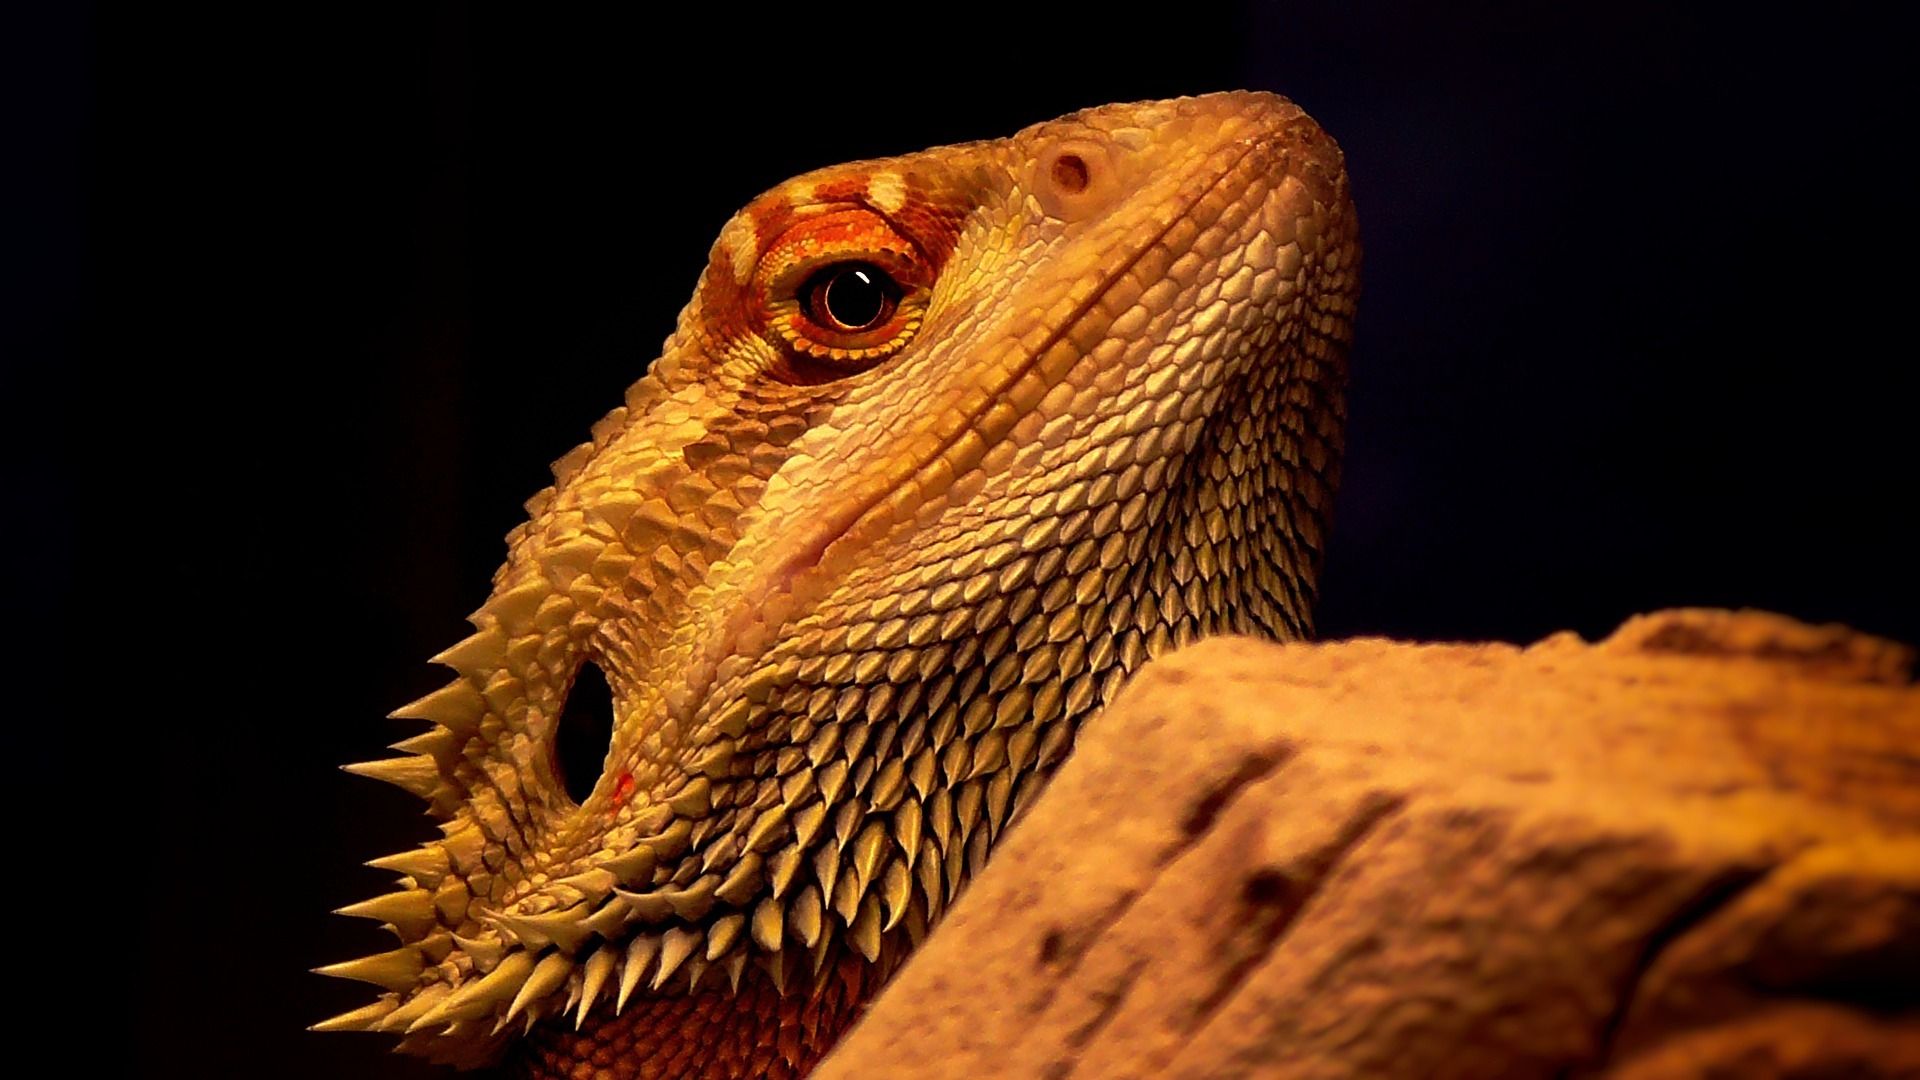
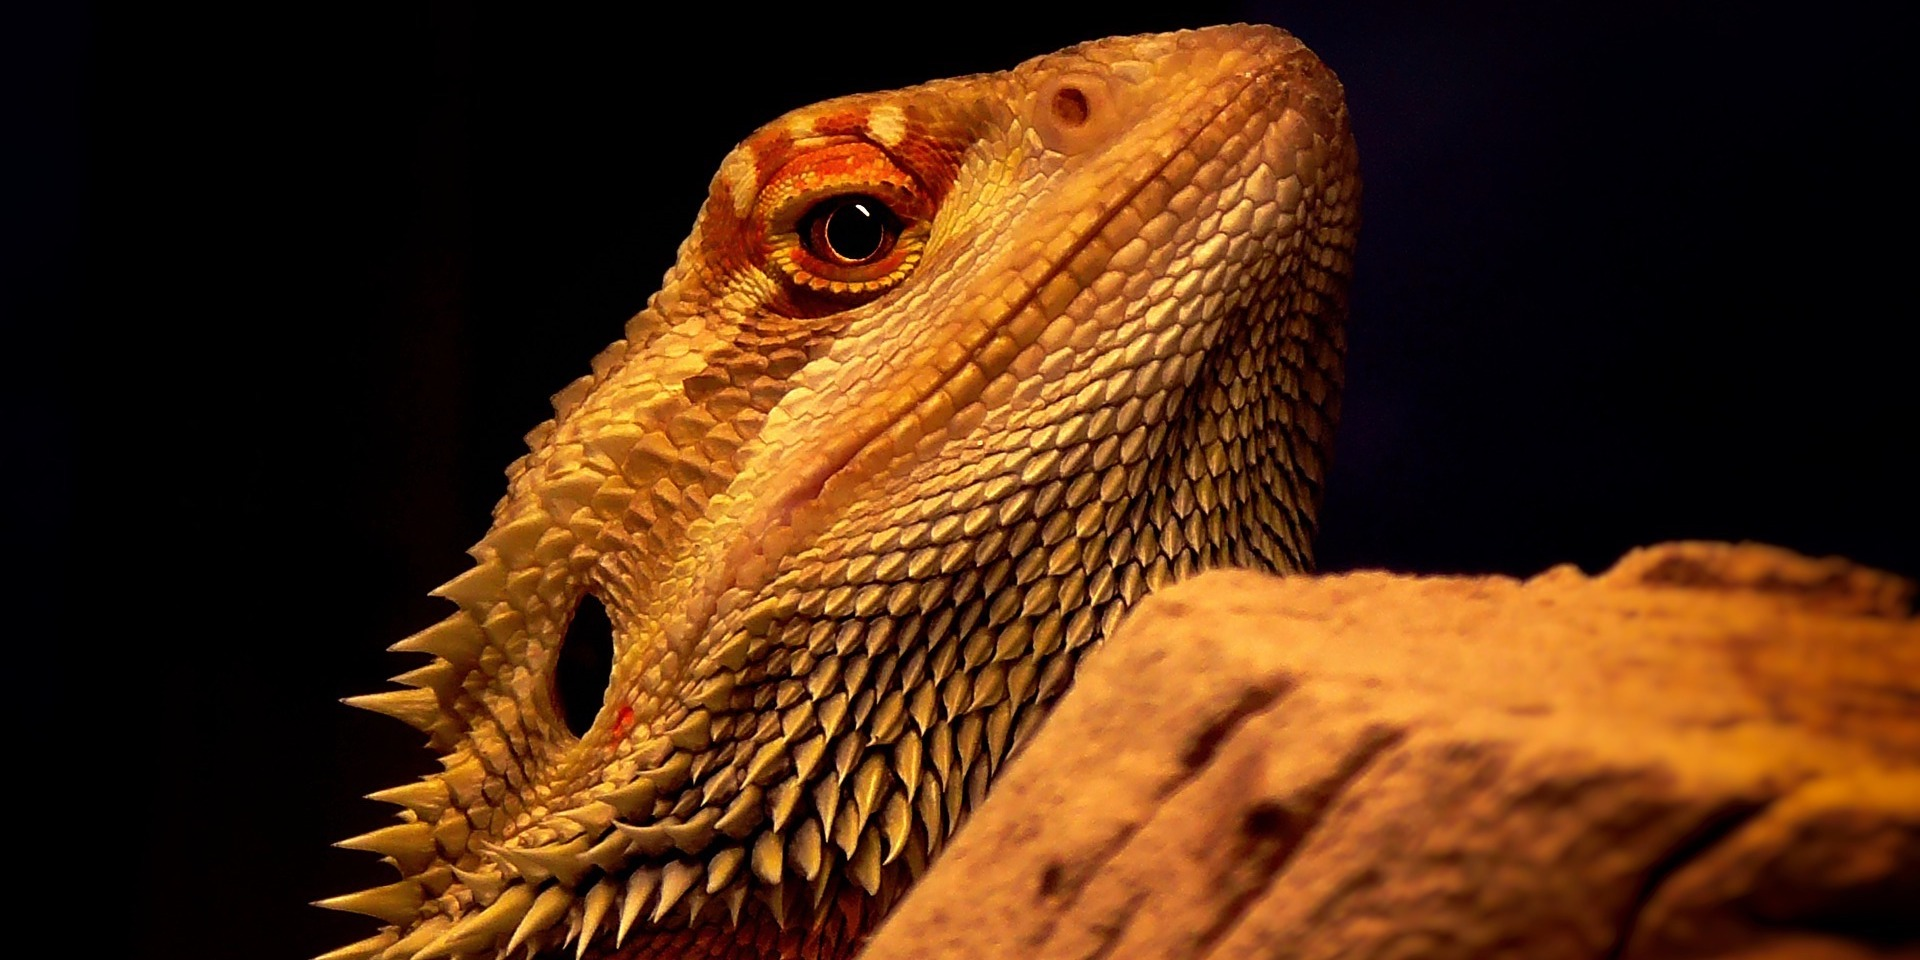
fixed image sizing and blank white space

diff --git a/client/src/index.css b/client/src/index.css
@@ -25,10 +25,15 @@ code {
 
 .navi {
   border-style: solid;
-  border-bottom: 1px;
   border-left: 1px;
   border-right: 1px;
   border-color: rgb(26, 255, 26);
+  /* background-color: #2b2b2b; */
+}
+
+.hero {
+  width: 100%;
+  padding: 0;
 }
 
 .hero-img {

diff --git a/client/src/pages/Home.js b/client/src/pages/Home.js
@@ -6,7 +6,7 @@ import Cart from '../components/Cart';
 
 const Home = () => {
     return (
-        <div className="container">
+        <div>
             {/* <Header /> */}
             <Cart />
             <Hero />
